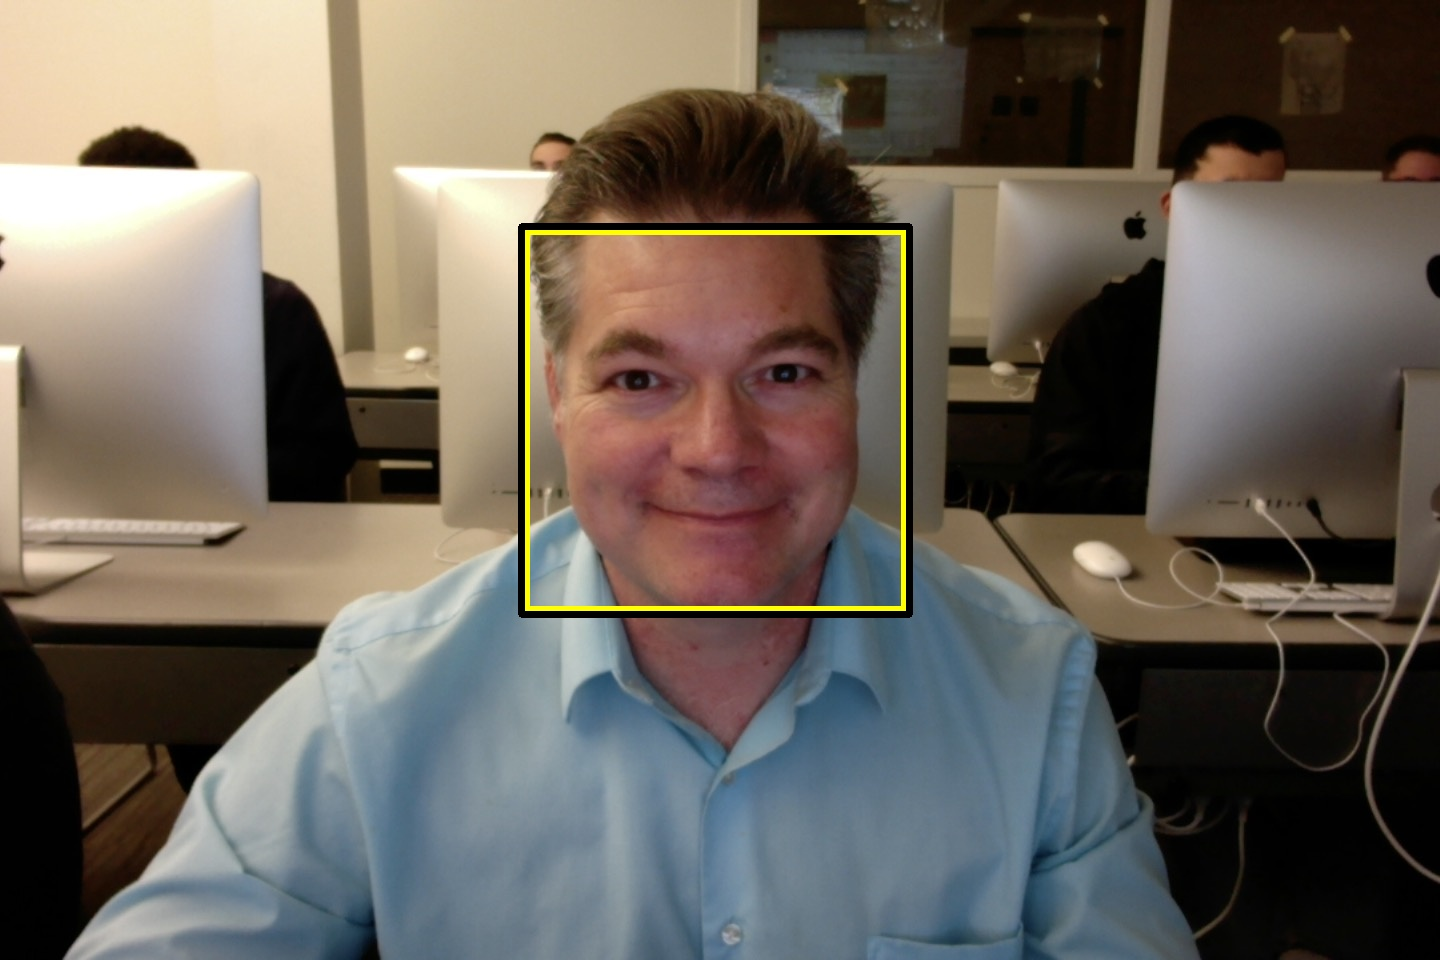
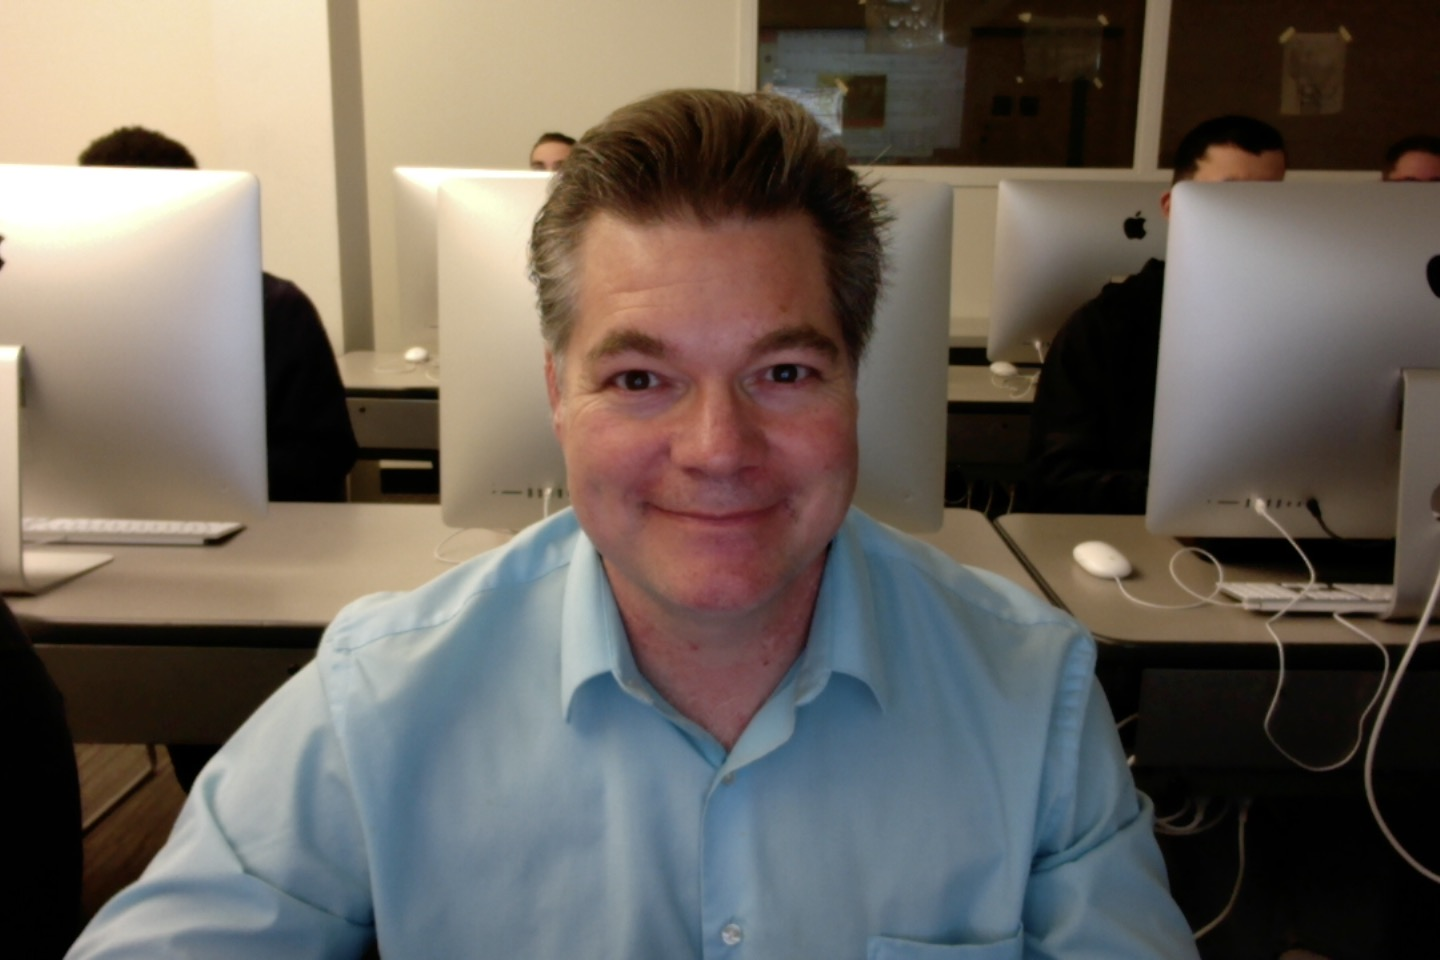
Fixed facedetect.py to not overwrite example.jpg

Changed region(s): [[0.3438, 0.2188, 0.6562, 0.6562]]

diff --git a/facedetect.py b/facedetect.py
@@ -30,6 +30,6 @@ for (x, y, w, h) in faces:
 
 # Display the output
 cv2.imshow('press any key to exit', img)
-cv2.imwrite('example.jpg',img)
+cv2.imwrite('example_result.jpg',img)
 cv2.waitKey(0) # blocks until a key is pressed when window is active.
 cv2.destroyAllWindows()
